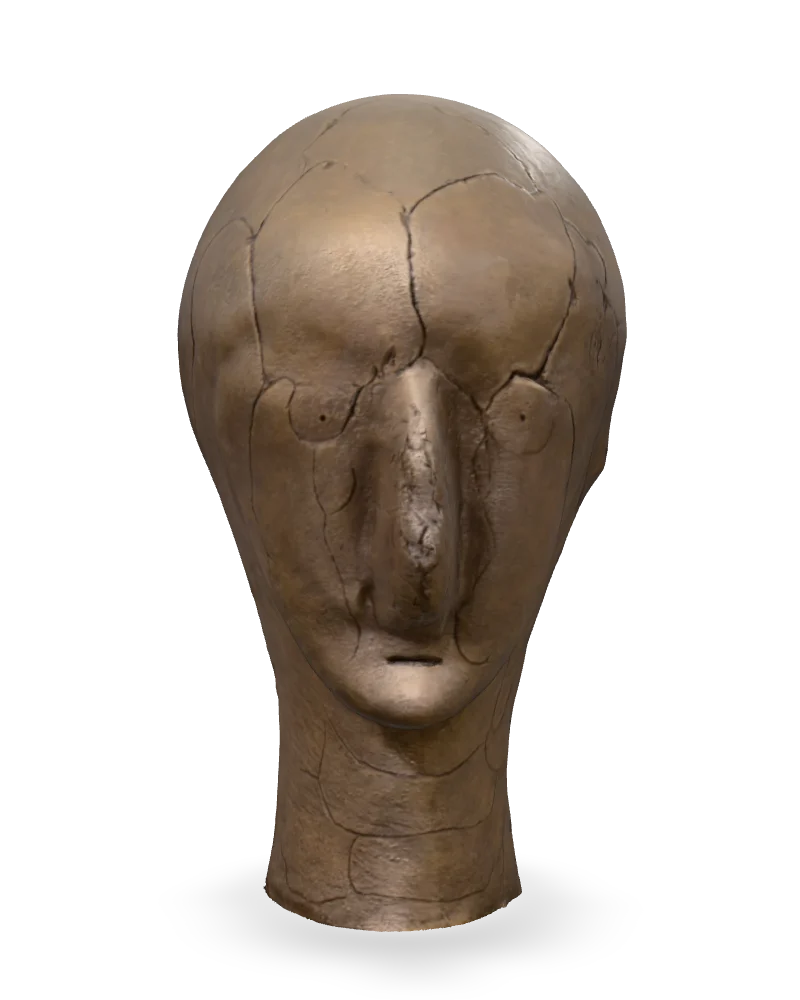
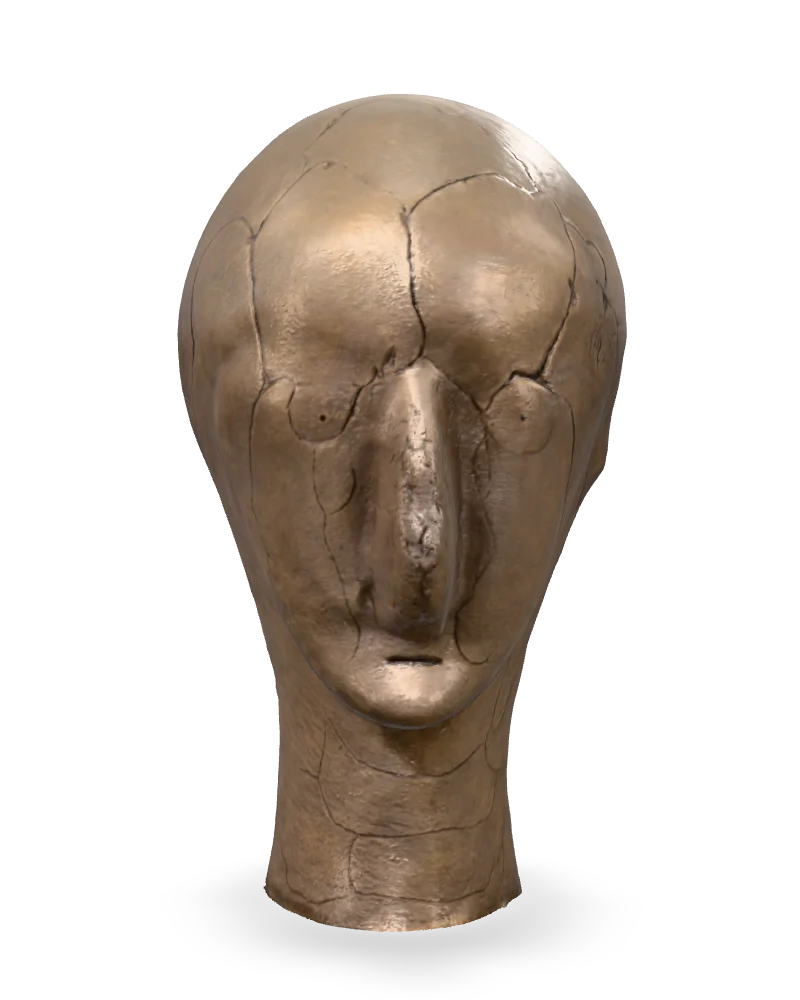
Cracked Head: new look from the look lab
Thumbnail rebuilt with it (?v=2).

diff --git a/lib/sculptures.ts b/lib/sculptures.ts
@@ -1089,9 +1089,9 @@ export const sculptures: Sculpture[] = [
     longDescription:
       "A tall, smooth head rises from a long, slightly flared neck, its outline swelling to a broad, rounded crown. Across the whole surface runs a network of fine, dark lines, like cracks in dried earth or a glazed pot, dividing the skull, face and neck into irregular plates.\n\nThe face is reduced to a few features. A long, heavy nose runs down from the brow, its ridge rough and broken where the rest of the surface is smooth. On either side, two tiny round holes mark the eyes, set within softly raised areas. Below the nose, the mouth is a single short slit above a small, rounded chin.\n\nThe bronze has an even, warm grey-brown tone with a soft sheen, so the cracks read as drawn lines over the curved surfaces. A raised ridge runs over the top of the head from front to back. The bronze measures 49 × 27 × 31 inches, about 124 cm high, and comes from an edition of 5 plus an artist's proof. It is listed in its source as Untitled (Head).",
     artistSlug: "himmat-shah",
-    thumbnail: "/thumbnails/shah-cracked-head.webp",
+    thumbnail: "/thumbnails/shah-cracked-head.webp?v=2",
     modelUrl: "/sculptures/shah-cracked-head.glb",
-    look: { metalness: 0.2, roughness: 1.31, reflections: 0.6 },
+    look: { metalness: 0.35, reflections: 0.65, light: 1.9, sideLights: 0.2 },
     facing: 240,
     material: "Bronze",
     year: "",
